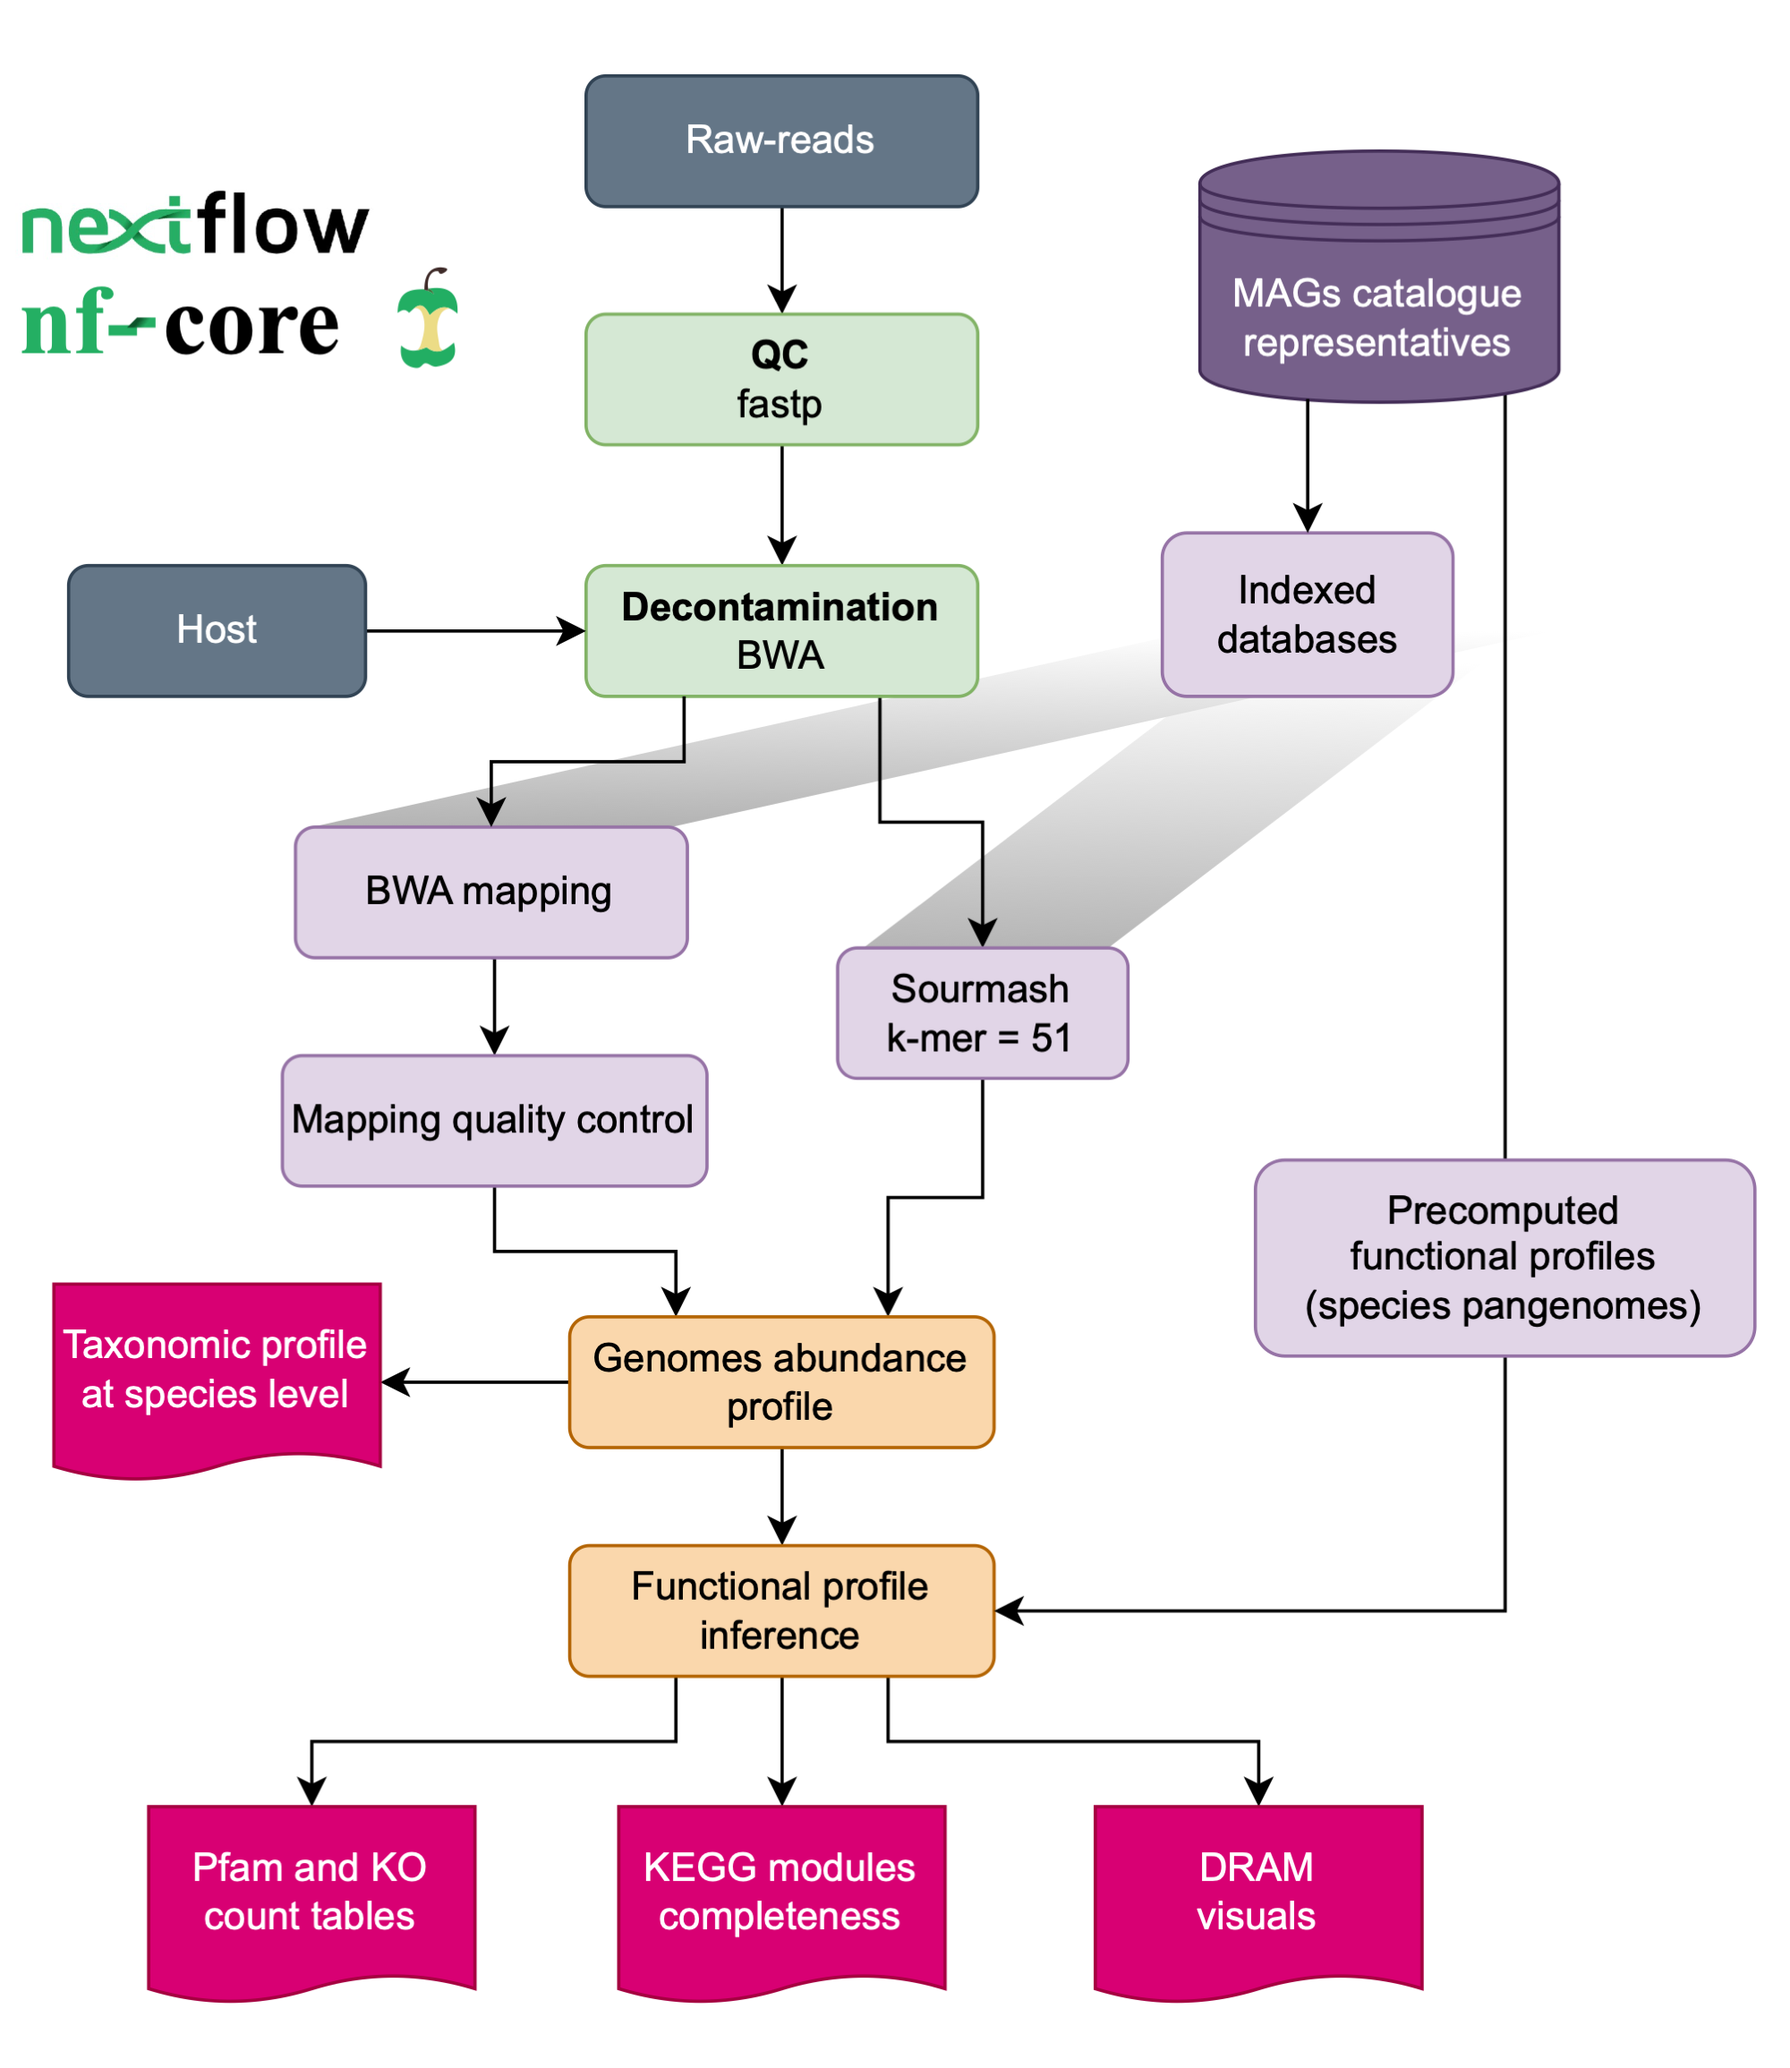
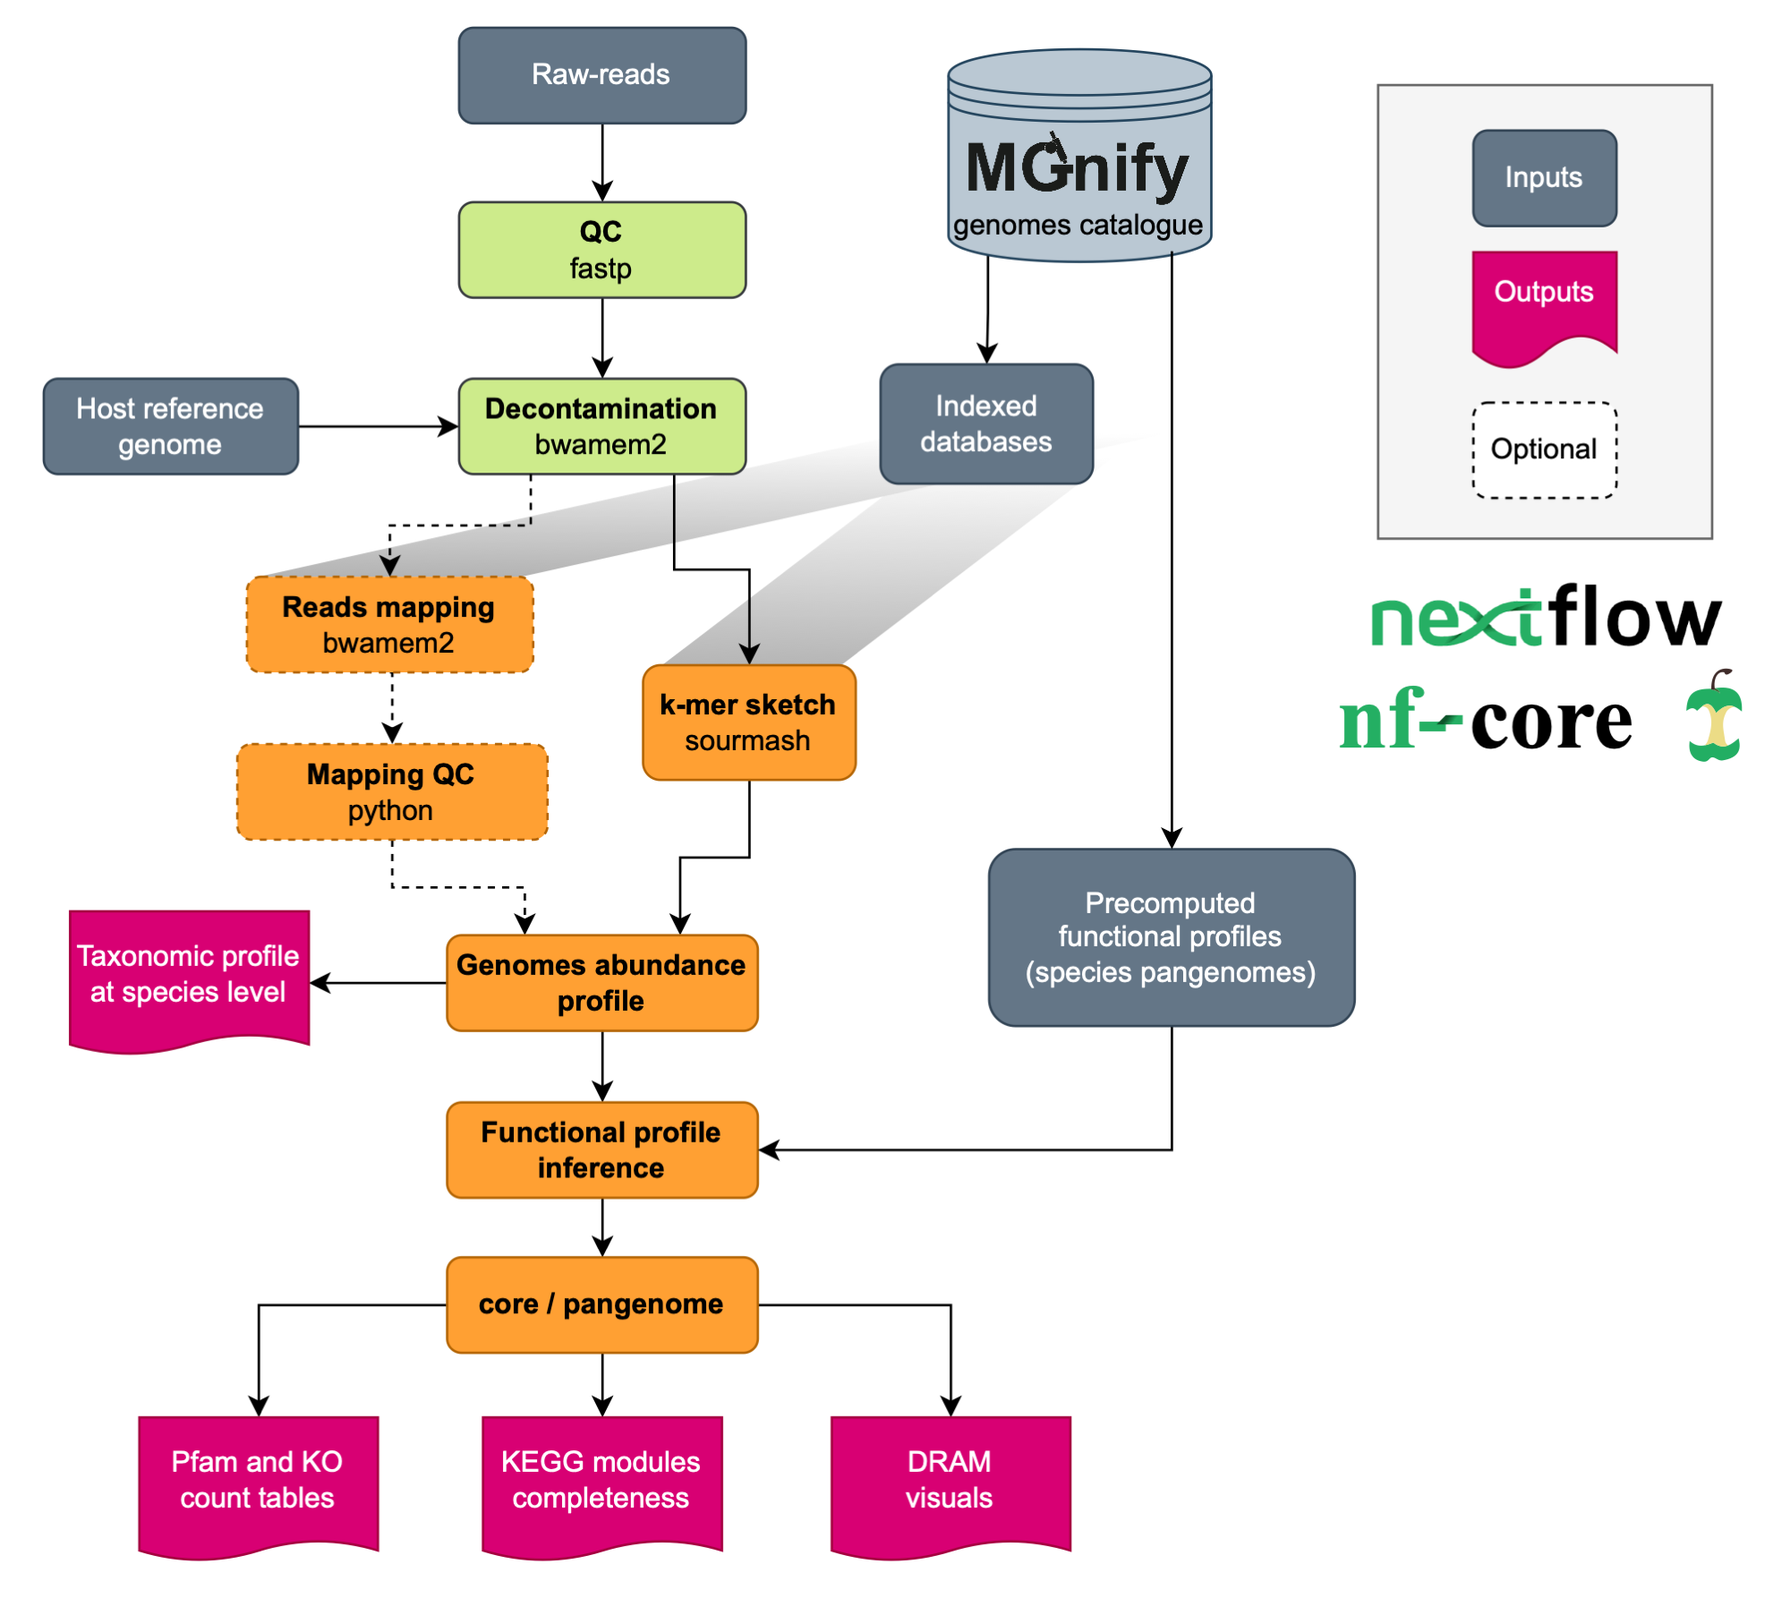
README updated

diff --git a/README.md b/README.md
@@ -9,45 +9,107 @@
 
 ## Introduction
 
-**ebi-metagenomics/shallowmapping** is a bioinformatics pipeline that generates functional profiles for shallow shotgun using low-yield (shallow shotgun: < 10 M reads) short- raw-reads mapping versus a database of MGnify biome-specific genome catalogues.
+**ebi-metagenomics/shallowmapping** is a bioinformatics pipeline that generates taxonomic and functional profiles for low-yield (shallow shotgun: < 10 M reads) short raw-reads using [`MGnify biome-specific genome catalogues`](https://www.ebi.ac.uk/metagenomics/browse/genomes) as a reference. 
+
+At the moment, the biome selection is limited to the precomputed databases available to downloading (chicken-gut-v1-0-1 and mouse-gut-v1-0). Other databases can be build for any of the [`MGnify genome catalogues`](https://www.ebi.ac.uk/metagenomics/browse/genomes) under request by opening an issue in this repo.
 
 The main sections of the pipeline includes the following steps:
-1. Reads quality control ([`FastQC`](https://www.bioinformatics.babraham.ac.uk/projects/fastqc/))
-2. Present QC for raw reads ([`MultiQC`](http://multiqc.info/))
-3. Reads decontamination versus human and host ([`bwa-mem2`](https://github.com/bwa-mem2/bwa-mem2))
-4. Mapping clean raw-reads using bwa-mem2, [`Sourmash`](https://sourmash.readthedocs.io/en/latest/command-line.html) or both
-5. Taxonomic profiles generation
-6. Functional profiles inference
+1. Raw-reads quality control ([`fastp`](https://github.com/OpenGene/fastp))
+2. HQ reads decontamination versus human, phyX, and host ([`bwa-mem2`](https://github.com/bwa-mem2/bwa-mem2))
+3. QC report of decontaminated reads ([`FastQC`](https://www.bioinformatics.babraham.ac.uk/projects/fastqc/))
+4. Integrated quality report of reads before and after decontamination ([`MultiQC`](http://multiqc.info/))
+5. Mapping HQ clean reads using [`Sourmash`](https://github.com/sourmash-bio/sourmash) and bwa-mem2 (optional)
+6. Taxonomic profiles generation
+7. Functional profiles inference
 
-The final output includes a species relative abundance table, Pfam and KEGG Orthologs (KO) count tables, a KEGG modules completeness table, and DRAM-style visuals.
+The final output includes a species relative abundance table, Pfam and KEGG Orthologs (KO) count tables, a KEGG modules completeness table, and DRAM-style visuals. In addition, the shallow-mapping pipeline will integrate the taxonomic and functional tables of all the samples in the input samplesheet.
 
 <p align="center" width="100%">
    <img src="docs/images/workflow.png" width="90%"/>
 </p>
 
 
-## Usage
+## Install and databases setup
 
-### Required reference databases
+### Required reference databases for decontamination
 
-The first time you run the pipeline you need to put available the genome reference of human indexed for bwa-mem2 necesary for the fist step of decontamination.
-
-```bash
-cd ebi-metagenomics-shallowmapping
-mkdir -p databases/human_db && cd databases/human_db
-wget -O hg38.fa.gz https://ftp.ncbi.nlm.nih.gov/genomes/all/GCF/000/001/405/GCF_000001405.40_GRCh38.p14/GCF_000001405.40_GRCh38.p14_genomic.fna.gz
-nextflow run /PATH/ebi-metagenomics-shallowmapping/index_human.nf
-```
-
-In addition, if this is the first time you are running the pipeline with a specific biome, you need to download the precomputed databases from the EBI FTP site.
+The first time you run the pipeline you need to put available the genome reference of human+phiX and the host (chicken or mouse) indexed for bwa-mem2. Already indexed reference genomes are hosted in the MGnify FTP site. To download, clone the repo and run the following commands:
 
 ```bash
-cd ebi-metagenomics-shallowmapping/databases
-wget https://ftp.ebi.ac.uk/pub/databases/metagenomics/pipelines/shallow-mapping/biome.tar.gz
-tar -xvf biome.tar.gz
+cd shallowmapping
+mkdir -p databases/reference_genomes && cd databases/reference_genomes
+
+# Downloading human+phiX reference genomes
+
+wget https://ftp.ebi.ac.uk/pub/databases/metagenomics/pipelines/references/human_phiX/human_phix_ref_bwamem2.tar.gz
+tar -xvf human_phix_ref_bwamem2.tar.gz
+mv bwamem2/* .
+rm -r bwamem2
+
+# Downloading the host genome. Replace $HOST by the name of the reference genome you are intend to download (e.g. chocken)
+
+wget https://ftp.ebi.ac.uk/pub/databases/metagenomics/pipelines/references/$HOST/$HOST_ref_bwamem2.tar.gz
+tar -xvf $HOST_ref_bwamem2.tar.gz
+mv bwamem2/* .
+rm -r bwamem2
 ```
 
-### Running the pipeline
+You can move the location of the databases and update the config files accordingly.
+
+
+#### MGnify genome catalogue databases
+In addition, if this is the first time you are running the pipeline with a specific biome, you need to download the precomputed databases from the corresponding MGnify genomes catalogue.
+
+Inside the databases create a directory named exactly as the Catalogue ID:
+`chicken-gut-v1-0-1`
+`mouse-gut-v1-0`
+
+```bash
+cd shallowmapping/databases/
+mkdir $CATALOGUE_ID && cd $CATALOGUE_ID
+
+# Downloading the catalogue metadata file. Replace $HOST for the name of the catalogue and $VERSION for the version you are intend to use as a reference
+
+wget https://ftp.ebi.ac.uk/pub/databases/metagenomics/mgnify_genomes/$HOST/$VERSION/genomes-all_metadata.tsv 
+
+# Downloading the pangenome function tables
+
+wget https://ftp.ebi.ac.uk/pub/databases/metagenomics/mgnify_genomes/$HOST/$VERSION/pangenome_functions/functional_profiles.tar.gz
+tar -xvf functional_profiles.tar.gz
+
+wget https://ftp.ebi.ac.uk/pub/databases/metagenomics/mgnify_genomes/$HOST/$VERSION/pangenome_functions/kegg_completeness.tar.gz
+tar -xvf kegg_completeness.tar.gz
+
+# Downloading the representative genomes indexed for sourmash
+
+wget https://ftp.ebi.ac.uk/pub/databases/metagenomics/mgnify_genomes/$HOST/$VERSION/sourmash_db_$HOST_$VERSION/sourmash_species_representatives_k51.sbt.zip
+
+```
+
+Running the pipeline using bwamem2 is optional. If you want to run the pipeline with this option you need to download the bwamem2 database for representative genomes as well:
+
+```bash
+wget https://ftp.ebi.ac.uk/pub/databases/metagenomics/pipelines/references/$BIOME_reps/$BIOME-$VERSION_bwamem2.tar.gz
+tar -cvf $BIOME-$VERSION_bwamem2.tar.gz
+mv $BIOME-$VERSION_bwamem2/* .
+rm -r $BIOME-$VERSION_bwamem2
+```
+
+#### External databases for DRAM
+
+```bash
+cd shallowmapping/databases/
+mkdir -p external_dbs/dram_distill_dbs && cd external_dbs/dram_distill_dbs
+wget https://raw.githubusercontent.com/WrightonLabCSU/DRAM/master/data/amg_database.tsv
+wget https://raw.githubusercontent.com/WrightonLabCSU/DRAM/master/data/etc_module_database.tsv
+wget https://raw.githubusercontent.com/WrightonLabCSU/DRAM/master/data/function_heatmap_form.tsv
+wget https://raw.githubusercontent.com/WrightonLabCSU/DRAM/master/data/genome_summary_form.tsv
+wget https://raw.githubusercontent.com/WrightonLabCSU/DRAM/master/data/module_step_form.tsv
+wget https://ftp.ebi.ac.uk/pub/databases/Pfam/current_release/Pfam-A.hmm.dat.gz
+```
+
+
+### Usage
 
 Prepare a samplesheet with your input data that looks as follows:
 
@@ -55,28 +117,38 @@ Prepare a samplesheet with your input data that looks as follows:
 
 ```csv
 sample,fastq_1,fastq_2
-test,/PATH/test_R1.fq.gz,/PATH/test_R2.fq.gz
+paired_sample,/PATH/test_R1.fq.gz,/PATH/test_R2.fq.gz
+single_sample,/PATH/test.fq.gz
 ```
 
-Each row represents a fastq file (single-end) or a pair of fastq files (paired end). When single-end use the `single_end` in the header for column 2 instead of `fastq_1`.
+Each row represents a fastq file (single-end) or a pair of fastq files (paired end).
 
-Now, you can run the pipeline using:
+Now, you can run the pipeline using the minumum mandatory arguments:
 
 ```bash
-nextflow run ebi-metagenomics/shallowmapping \
-   -profile <singularity,institute> \
-   --biome <chicken-gut-v1-0-1/mouse-gut-v1-0> \
-   --run_bwa <true/false> default = `false` \
+nextflow run /PATH/shallowmapping/main.nf \
+   --biome <chicken-gut-v1-0-1 or mouse-gut-v1-0> \
    --input samplesheet.csv \
-   --outdir <OUTDIR> default = `results`
+   --outdir <PROJECT_NAME> default = `results`
 ```
 
-At the moment, the biome selection is limited to the precomputed databases available to downloading. Other databases can be build for any of the [`MGnify genome catalogues`](https://www.ebi.ac.uk/metagenomics/browse/genomes) under request by opening an issue in this repo.
+At the moment, the biome selection is limited to the precomputed databases available to downloading (chicken-gut-v1-0-1 and mouse-gut-v1-0). Other databases can be build for any of the [`MGnify genome catalogues`](https://www.ebi.ac.uk/metagenomics/browse/genomes) under request by opening an issue in this repo.
+
+
+Optional arguments includes:
+```bash
+   --run_bwa <true or false> default = `false`    # To generate results using bwamem2 besides sourmash
+   --core_mode <true or false> default = `false`  # To use core functions instead of pangenome functions
+```
+
+Use `--core_mode true` for large catalogues like the mouse-gut to avoid over-prediction due to an extremely large number of accessory genes in the pangenome.
+Nextflow option `-profile` can be use to select a suitable config for your computational resources.
+Nextflow option `-resume` can be use to re-run the pipeline from the last successfully finished step. 
 
 
 ## Credits
 
-ebi-metagenomics/shallowmapping was originally written by @Ales-ibt.
+ebi-metagenomics/shallowmapping pipeline was originally written by @Ales-ibt.
 
 We thank the following people for their extensive assistance in the development of this pipeline:
 
